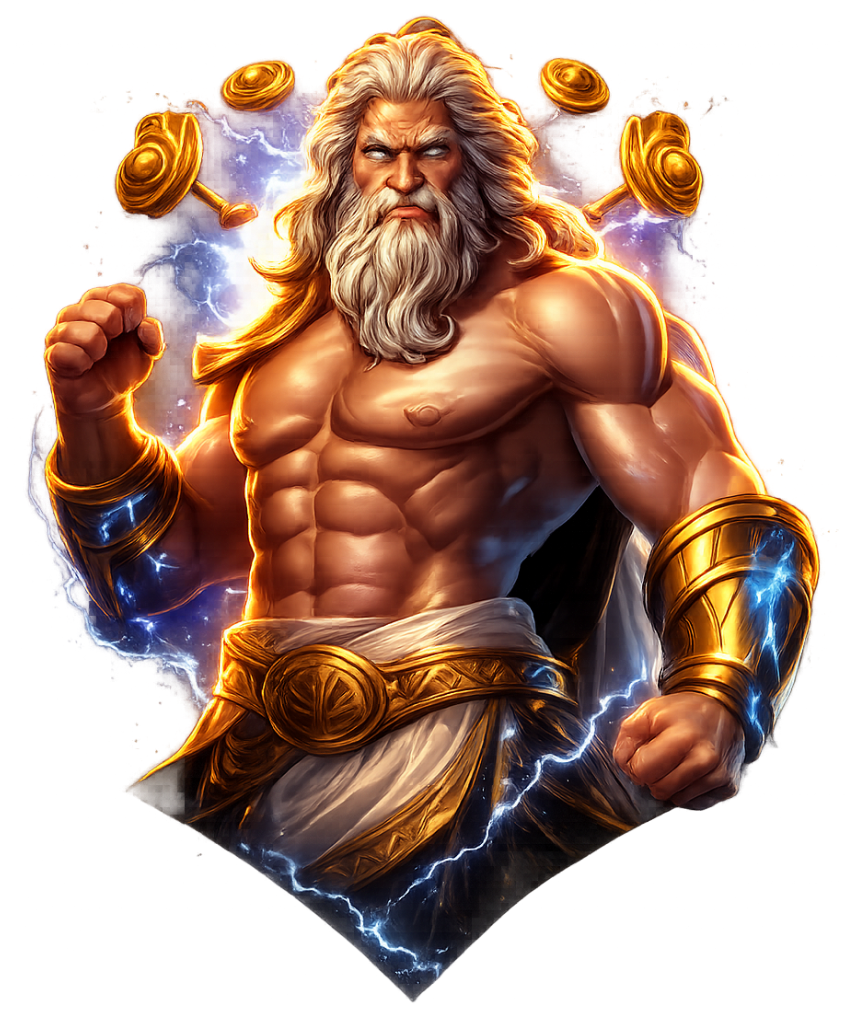
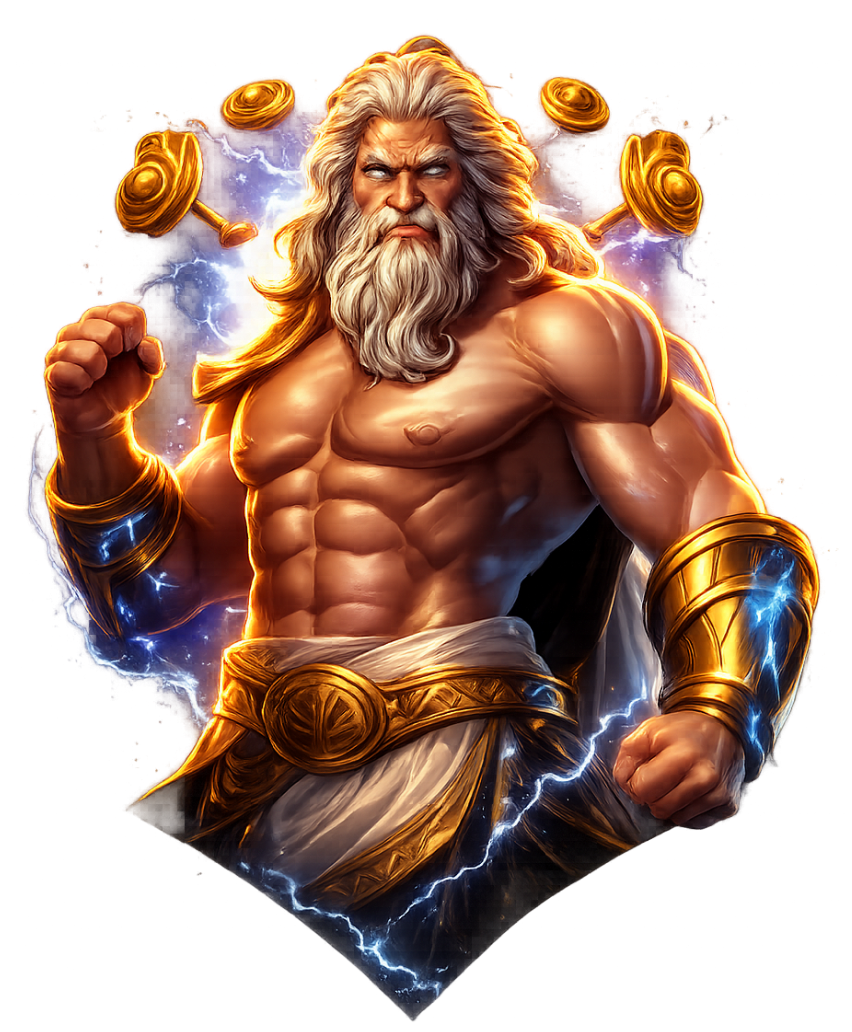
j

diff --git a/index.html b/index.html
@@ -30,7 +30,7 @@
       <main class="main-content">
         <section class="hero-card" aria-labelledby="hero-title">
           <h1 id="hero-title">OBTENÉ UN <span class="gradient-text">100%</span> EN TU PRIMER DEPÓSITO</h1>
-          <p id="hero-copy"><span class="icon">🢃<span class="fallback">↓</span></span> Escribinos apretando el botón de abajo <span class="icon">🢃<span class="fallback">↓</span></span></p>
+          <p id="hero-copy"><span class="icon">🢃<span class="fallback">a</span></span> Escribinos apretando el botón de abajo <span class="icon">🢃<span class="fallback">↓</span></span></p>
 
           <div class="hero-card__actions">
             <button type="button" class="whatsapp-button" id="whatsapp-button" aria-label="Abrir WhatsApp">